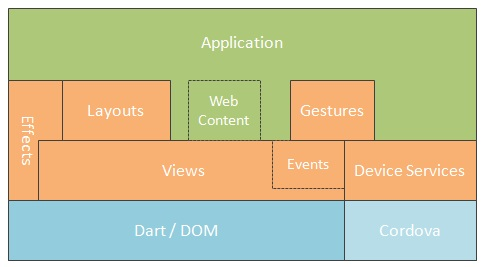
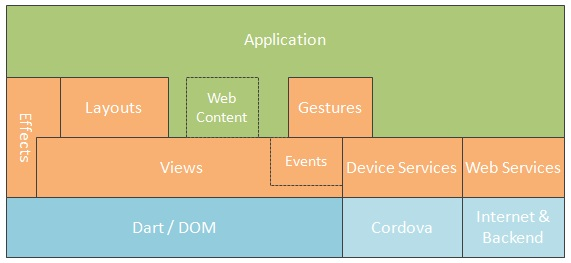
skeleton of web services added

diff --git a/docs/_config_/autogen-header.html b/docs/_config_/autogen-header.html
@@ -95,6 +95,17 @@
     <li><a href="${context-path}Layouts/Linear_Layout.html">Linear Layout</a></li>
     <li><a href="${context-path}Layouts/LayoutManager.html">LayoutManager</a></li>
   </ul></li>
+  <li class="category"><span>Gestures</span>
+  <ul>
+    <li><a href="${context-path}Gestures/Fundamentals.html">Fundamentals</a></li>
+    <li><a href="${context-path}Gestures/DragGesture.html">DragGesture</a></li>
+    <li><a href="${context-path}Gestures/HoldGesture.html">HoldGesture</a></li>
+    <li><a href="${context-path}Gestures/Scroller.html">Scroller</a></li>
+  </ul></li>
+  <li class="category"><span>Effects</span>
+  <ul>
+    <li><a href="${context-path}Effects/Fundamentals.html">Fundamentals</a></li>
+  </ul></li>
   <li class="category"><span>Device Services</span>
   <ul>
     <li><a href="${context-path}Device_Services/Fundamentals.html">Fundamentals</a></li>
@@ -107,16 +118,12 @@
     <li><a href="${context-path}Device_Services/Geolocation.html">Geolocation</a></li>
     <li><a href="${context-path}Device_Services/Notification.html">Notification</a></li>
   </ul></li>
-  <li class="category"><span>Gestures</span>
+  <li class="category"><span>Web Services</span>
   <ul>
-    <li><a href="${context-path}Gestures/Fundamentals.html">Fundamentals</a></li>
-    <li><a href="${context-path}Gestures/DragGesture.html">DragGesture</a></li>
-    <li><a href="${context-path}Gestures/HoldGesture.html">HoldGesture</a></li>
-    <li><a href="${context-path}Gestures/Scroller.html">Scroller</a></li>
-  </ul></li>
-  <li class="category"><span>Effects</span>
-  <ul>
-    <li><a href="${context-path}Effects/Fundamentals.html">Fundamentals</a></li>
+    <li><a href="${context-path}Web_Services/Fundamentals.html">Fundamentals</a></li>
+    <li><a href="${context-path}Web_Services/gmaps.html">Google Maps</a></li>
+    <li><a href="${context-path}Web_Services/gapis.html">Google Services</a></li>
+    <li><a href="${context-path}Web_Services/yapis.html">Yahoo Services</a></li>
   </ul></li>
   <li class="category"><span>Utilities</span>
   <ul>

diff --git a/docs/_config_/template-header.html b/docs/_config_/template-header.html
@@ -53,6 +53,17 @@
     <li><a href="${context-path}Layouts/Linear_Layout.html">Linear Layout</a></li>
     <li><a href="${context-path}Layouts/LayoutManager.html">LayoutManager</a></li>
   </ul></li>
+  <li class="category"><span>Gestures</span>
+  <ul>
+    <li><a href="${context-path}Gestures/Fundamentals.html">Fundamentals</a></li>
+    <li><a href="${context-path}Gestures/DragGesture.html">DragGesture</a></li>
+    <li><a href="${context-path}Gestures/HoldGesture.html">HoldGesture</a></li>
+    <li><a href="${context-path}Gestures/Scroller.html">Scroller</a></li>
+  </ul></li>
+  <li class="category"><span>Effects</span>
+  <ul>
+    <li><a href="${context-path}Effects/Fundamentals.html">Fundamentals</a></li>
+  </ul></li>
   <li class="category"><span>Device Services</span>
   <ul>
     <li><a href="${context-path}Device_Services/Fundamentals.html">Fundamentals</a></li>
@@ -65,16 +76,12 @@
     <li><a href="${context-path}Device_Services/Geolocation.html">Geolocation</a></li>
     <li><a href="${context-path}Device_Services/Notification.html">Notification</a></li>
   </ul></li>
-  <li class="category"><span>Gestures</span>
+  <li class="category"><span>Web Services</span>
   <ul>
-    <li><a href="${context-path}Gestures/Fundamentals.html">Fundamentals</a></li>
-    <li><a href="${context-path}Gestures/DragGesture.html">DragGesture</a></li>
-    <li><a href="${context-path}Gestures/HoldGesture.html">HoldGesture</a></li>
-    <li><a href="${context-path}Gestures/Scroller.html">Scroller</a></li>
-  </ul></li>
-  <li class="category"><span>Effects</span>
-  <ul>
-    <li><a href="${context-path}Effects/Fundamentals.html">Fundamentals</a></li>
+    <li><a href="${context-path}Web_Services/Fundamentals.html">Fundamentals</a></li>
+    <li><a href="${context-path}Web_Services/gmaps.html">Google Maps</a></li>
+    <li><a href="${context-path}Web_Services/gapis.html">Google Services</a></li>
+    <li><a href="${context-path}Web_Services/yapis.html">Yahoo Services</a></li>
   </ul></li>
   <li class="category"><span>Utilities</span>
   <ul>

diff --git a/docs/_config_/autogen-footer.html b/docs/_config_/autogen-footer.html
@@ -1,7 +1,7 @@
 </div></div>
 </div>
    </div> 
-   <script type="text/javascript" src="http://rikulo.org/resource/js/page/template.js?v=1342604761947"></script> 
+   <script type="text/javascript" src="http://rikulo.org/resource/js/page/template.js?v=1342758296101"></script> 
    <script type="text/javascript" src="http://rikulo.org/resource/js/page/gaz.js"></script>  
    <script type="text/javascript" src="http://rikulo.org/resource/js/page/doc.js"></script> 
    <footer id="footer"> 
@@ -14,6 +14,7 @@
       <ul> 
        <li class="label">Follow us on</li> 
        <li class="sns-btn rss"><a href="http://blog.rikulo.org/feeds/all.rss.xml" title="Rikulo RSS">Rikulo RSS</a></li> 
+       <li class="sns-btn git"><a href="https://github.com/rikulo/rikulo" title="Rikulo Git">Rikulo Git</a></li> 
        <li class="sns-btn twitter"><a href="http://twitter.com/RikuloUI" title="Rikulo Twitter">Twitter @rikuloui</a></li> 
        <li class="sns-btn facebook"><a href="http://www.facebook.com/rikulo" title="Rikulo Facebook">Rikulo Facebook</a></li> 
        <li class="sns-btn googleplus"><a href="https://plus.google.com/u/0/b/117602514255061155793/117602514255061155793" title="Rikulo GooglePlus">google plus</a></li> 

diff --git a/docs/Getting_Started/Architectural_Diagram.md b/docs/Getting_Started/Architectural_Diagram.md
@@ -7,3 +7,4 @@
 * [Gestures](../Gestures/Fundamentals.md) - abstracting the user's gesture into easy callbacks, such as drag-and-drop and scrolling.
 * [Effects](../Effects/Fundamentals.md) - animation effects, such as easing and linear motion.
 * [Device Services](../Device_Services/Fundamentals.md) - services to access device resources, such as motion sensor and camera.
+* [Web Services](../Web_Services/Fundamentals.md) - utilities and views to access web services, such as Google Maps and Yahoo Weather.

diff --git a/docs/Web_Services/index.md b/docs/Web_Services/index.md
@@ -1,0 +1,6 @@
+#Web Services
+
+* [Fundamentals](Fundamentals.md)
+* [Google Maps](gmaps.md)
+* [Google Services](gapis.md)
+* [Yahoo Services](yapis.md)

diff --git a/docs/Web_Services/Fundamentals.md b/docs/Web_Services/Fundamentals.md
@@ -1,0 +1,2 @@
+#Fundamentals of Web Services
+

diff --git a/docs/Web_Services/gapis.md b/docs/Web_Services/gapis.md
@@ -1,0 +1,2 @@
+#Google Services
+

diff --git a/docs/Web_Services/yapis.md b/docs/Web_Services/yapis.md
@@ -1,0 +1,2 @@
+#Yahoo Servcies
+
